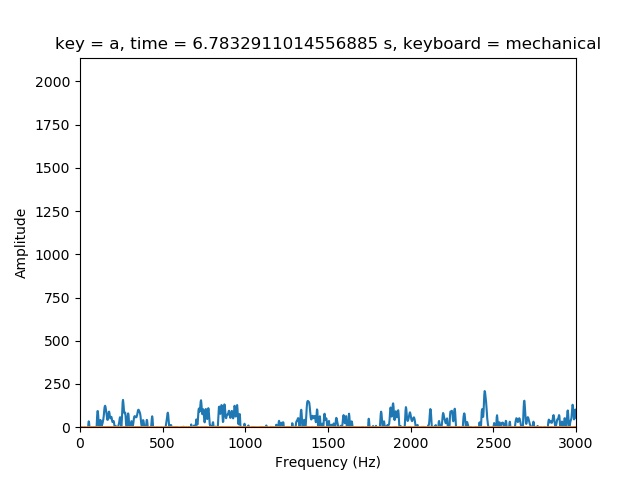
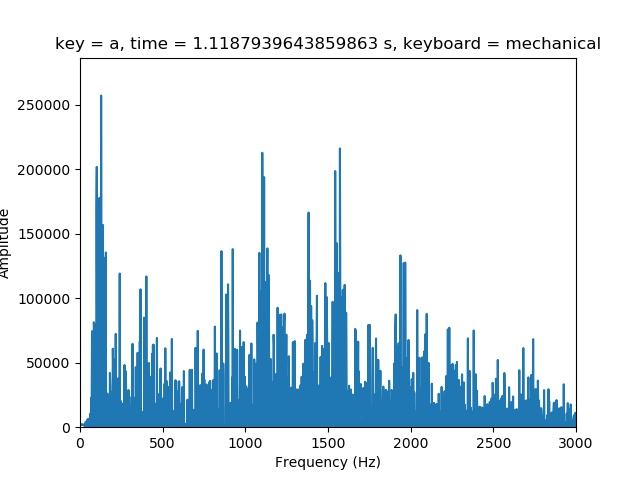
more touch peak analysis

diff --git a/src/plot_time_series.py b/src/plot_time_series.py
@@ -1,5 +1,5 @@
 """
-Retrieve raw time series data
+Retrieve raw time series data and extract touch peaks
 """
 
 import os
@@ -12,6 +12,7 @@ from scipy.io import wavfile
 from scipy.signal import find_peaks
 
 DIR_IN = "../native_raw_data"
+DIR_OUT = "../features"
 KEYBOARD_TYPE = "mechanical"
 
 def get_time_series(key=None, path=DIR_IN, num_samples=44000, entire=False):
@@ -53,16 +54,15 @@ def get_time_series(key=None, path=DIR_IN, num_samples=44000, entire=False):
 
                 if not entire:
                     res.append(samples[sample_start : sample_end])
-                    print("len ", len(samples[sample_start: sample_end]))
                 curr_timestamps.append(timestamp)
 
             timestamps.append(curr_timestamps)
 
     return np.array(res), sample_rate, np.array(timestamps)
 
-if __name__ == "__main__":
-    key = "space"
-    res, sample_rate, timestamps = get_time_series(key=key, num_samples=20000, entire=False)
+def get_touch_fft(res, sample_rate, timestamps, key, features_file):
+    # Length of time for touch peak in ms
+    touch_time = 3
 
     for i in range(res.shape[0]):
         plt.title("key =  " + key)
@@ -71,13 +71,67 @@ if __name__ == "__main__":
         ax = plt.gca()
         if len(peaks) == 0:
             continue
+        """
         if len(peaks) >= 3:
             ax.text(t[peaks[0]], 2000, "push", fontsize=12)
             ax.text(t[peaks[len(peaks) - 3]], 2000, "release", fontsize=12)
+        """
 
         for peak in peaks:
             ax.text(t[peak] - 0.001, res[i][peak] - 40, "o")
 
-        plt.plot(t[peaks[0] : peaks[2]] - 0.005, res[i][peaks[0] : peaks[2]])
+        # We define the touch peak as the first peak over height 500 in the time series
+        start = peaks[0] - int(sample_rate / 1000 * touch_time / 2)
+        end = peaks[0] + int(sample_rate / 1000 + touch_time / 2)
+
+        touch_samples = res[i][peaks[0] - int(sample_rate / 1000 * touch_time / 2) : peaks[0] + int(sample_rate / 1000 + touch_time / 2)]
+        touch_samples = np.hanning(len(touch_samples)) * touch_samples
+        touch_t = t[peaks[0] - int(sample_rate / 1000 * touch_time / 2) : peaks[0] + int(sample_rate / 1000 + touch_time / 2)]
+
+        freq = np.fft.rfftfreq(len(touch_samples), 1 / sample_rate)
+        magnitude = np.fft.rfft(touch_samples)
+
+        # only look at positive frequencies
+        freq = freq[: len(touch_samples) // 2]
+        magnitude = np.abs(magnitude[: len(touch_samples) // 2])
+
+        # Normalize fft
+        magnitude /= np.max(magnitude)
+
+        # Remove higher frequencies
+        freq = freq[: 3 * len(freq) // 10]
+        magnitude = magnitude[: 3 * len(magnitude) // 10]
+
+        features_file.write(key)
+        for i in range(num_bins):
+            features_file.write("," + str(magnitude[i]))
+        features_file.write("\n")
+
+        #plt.plot(touch_t, touch_samples)
+
+        #plt.plot(t, res[i])
+        plt.plot(freq, magnitude)
+        #plt.xlim(right=10000)
+        #plt.ylim(bottom=0)
+
         # plt.scatter(timestamps[i], np.zeros(len(timestamps[i])) + 1000, color='red')
-        plt.show()
+        #plt.show()
+
+if __name__ == "__main__":
+    # Number of frequency bins we store
+    num_bins = 16
+
+    keys = ["space", "backspace", "a"]
+
+    features_file = open(os.path.join(DIR_OUT, KEYBOARD_TYPE, "touch_fft.csv"), 'w')
+    features_file.write("key")
+
+    for i in range(num_bins):
+        features_file.write(",freq_bin_" + str(i + 1))
+    features_file.write("\n")
+
+    for key in keys:
+        res, sample_rate, timestamps = get_time_series(key=key, num_samples=20000, entire=False)
+        get_touch_fft(res, sample_rate, timestamps, key, features_file)
+
+    features_file.close()

diff --git a/src/peak_model.py b/src/peak_model.py
@@ -17,23 +17,23 @@ from sklearn.metrics import accuracy_score, recall_score, precision_score, f1_sc
 
 dir_in = "features"
 keyboard_type = "mechanical"
-model = "KNN"
+model = "NN"
 
-df = pd.read_csv(os.path.join(dir_in, keyboard_type, "vggish_embeddings.csv"))
+df = pd.read_csv(os.path.join(dir_in, keyboard_type, "touch_fft.csv"))
 print(df.head())
 
 # Every column except the 0th column is an input feature
 x = np.array(df.iloc[:, 1:])
 labels = np.array(df.iloc[:, 0])
 
-y = np.array([1 if label == "backspace" else 0 for label in labels])
-print(np.count_nonzero(y))
-print(np.shape(y))
-# lb = LabelBinarizer(pos_label='mouse_click')
-# y = lb.fit_transform(labels)
+# y = np.array([1 if label == "backspace" else 0 for label in labels])
+# print(np.count_nonzero(y))
+# print(np.shape(y))
+lb = LabelBinarizer()
+y = lb.fit_transform(labels)
 
 # Split into train and test sets
-x_train, x_test, y_train, y_test = train_test_split(x, y, test_size=0.1)
+x_train, x_test, y_train, y_test = train_test_split(x, y, test_size=0.2)
 
 scaler = StandardScaler()
 scaler.fit(x_train)
@@ -53,18 +53,20 @@ elif model == "KMeans":
 
 clf.fit(x_train, y_train)
 y_pred = clf.predict(x_test)
+print("y_pred ", y_pred)
+print("y_test ", y_test)
 acc = accuracy_score(y_test, y_pred)
-precision = precision_score(y_test, y_pred)
-recall = recall_score(y_test, y_pred)
-f1 = f1_score(y_test, y_pred)
+#precision = precision_score(y_test, y_pred)
+#recall = recall_score(y_test, y_pred)
+#f1 = f1_score(y_test, y_pred)
 
-labels = set(y)
+#labels = set(y)
 print("Results: \n")
 print("Accuracy: ", acc)
-print("Precision: ", precision)
-print("Recall: ", recall)
-print("F1 score: ", f1)
-print("Number of labels: ", len(labels))
+#print("Precision: ", precision)
+#print("Recall: ", recall)
+#print("F1 score: ", f1)
+#print("Number of labels: ", len(labels))
 
 df.set_index("key", inplace=True)
 
